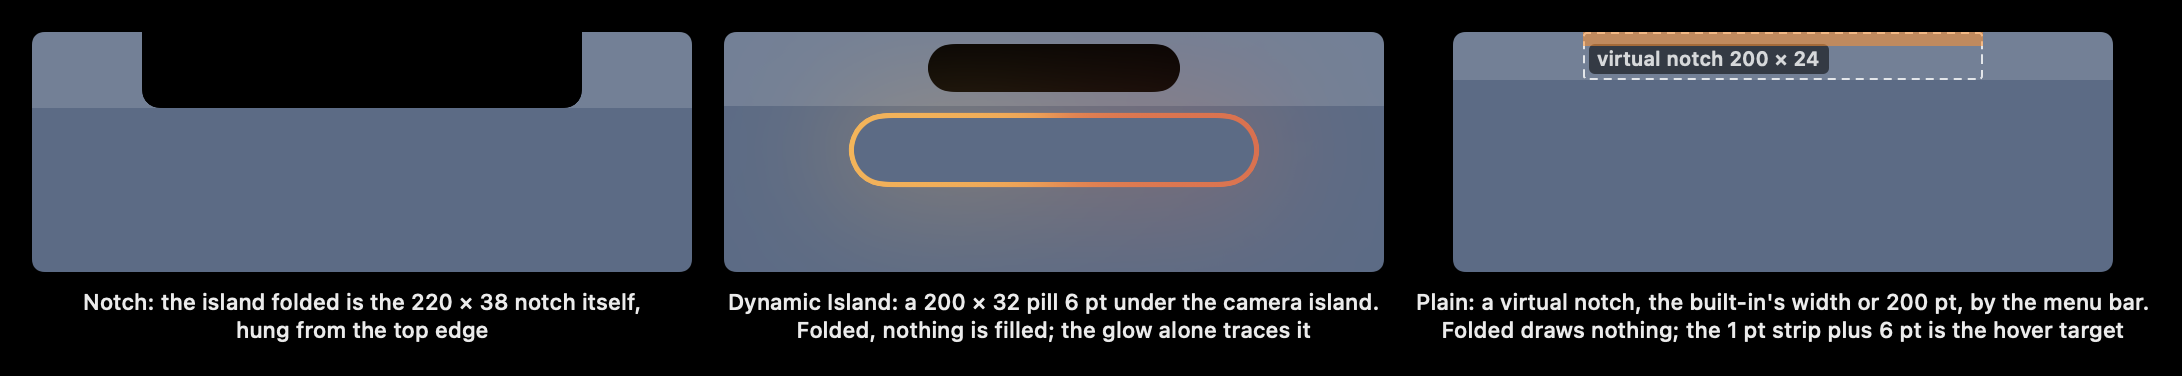
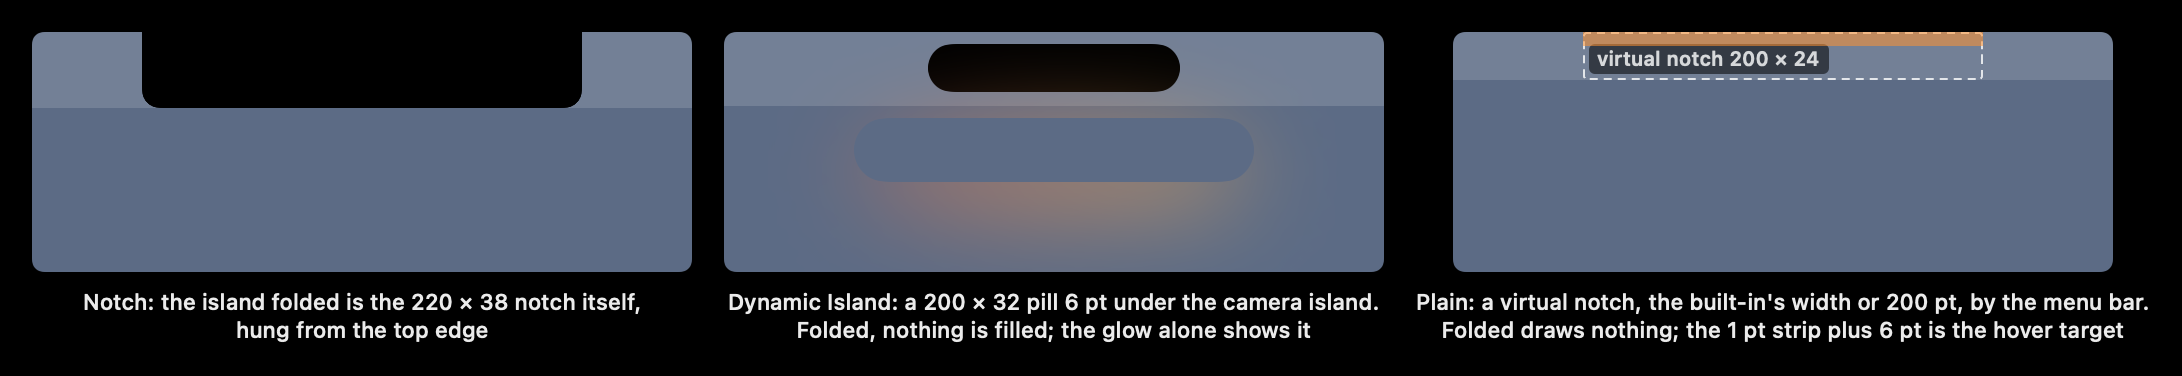
fix(glow): fade the light toward a short window top; a finished flash leaves the tree; reset when switched off
Review P1/P2: NotchGlowView(topRoom:) and View.notchGlowTopFade(room:) fade the light
out toward a window top that is not the screen's edge (a floating panel kept out of the
menu bar, a Dynamic Island panel), with render tests at 0, 16 and 59 pt. A flash's fall
now removes the ellipse (an alarm keeps its trace between beats). Switching the glow off
clears its state, so switching back on never shows a stale level. Figures re-rendered,
with the body cut out of the light.

Changed region(s): [[0.374, 0.4388, 0.5921, 0.5559], [0.374, 0.2926, 0.5921, 0.3511], [0.561, 0.8484, 0.5921, 0.9069]]

diff --git a/Sources/NotchKit/NotchGlow.swift b/Sources/NotchKit/NotchGlow.swift
@@ -260,6 +260,9 @@ public struct NotchGlowEllipse: View {
 /// - `trace`: the 2.6 pt gradient trace along the outline as well, still, while the glow is lit (for example under
 ///   Increase Contrast).
 /// - `alarm`: each sweep peaks at 90 %.
+/// - `topRoom`: the room above the frame inside the host's window, when its top is not the screen's edge (a floating
+///   panel kept out of the menu bar, a panel under the menu bar). Under `blurReach` the light fades out toward that top,
+///   so the window's edge never cuts it into a line (`notchGlowTopFade(room:)`).
 /// - Reduce Motion: held still with 0.2 s cross-fades.
 ///
 /// There is no timeline: nothing redraws per frame except while the island's size changes. When nothing is lit the
@@ -274,6 +277,8 @@ public struct NotchGlowView: View {
     let expansion: Double
     let trace: Bool
     let alarm: Bool
+    /// The room above the frame's top inside the host's window (nil: the frame's top is the screen's edge).
+    let topRoom: CGFloat?
     /// The light's opacity now (animated) and whether it is in the view tree.
     @State private var level: NotchGlowLevel
     @State private var present: Bool
@@ -284,9 +289,9 @@ public struct NotchGlowView: View {
     @Environment(\.notchConfiguration) private var configuration
 
     public init(state: NotchGlowState, shape: NotchGlowShape, on: Bool, reduceMotion: Bool, expansion: Double = 1,
-                trace: Bool = false, alarm: Bool = false) {
+                trace: Bool = false, alarm: Bool = false, topRoom: CGFloat? = nil) {
         self.state = state; self.shape = shape; self.on = on; self.reduceMotion = reduceMotion; self.expansion = expansion
-        self.trace = trace; self.alarm = alarm
+        self.trace = trace; self.alarm = alarm; self.topRoom = topRoom
         // A still state shows from the first frame; a flash starts from nothing and rises once the view is up.
         let motion = NotchGlow.motion(for: state, on: on, reduceMotion: reduceMotion, alarm: alarm)
         if case .hold(let l, _) = motion { _level = State(initialValue: l) } else { _level = State(initialValue: .zero) }
@@ -309,8 +314,10 @@ public struct NotchGlowView: View {
             drawing(light: present, still: nil, trace: trace && present)
                 .onChange(of: Key(state: state, reduceMotion: reduceMotion, alarm: alarm), initial: true) { _, key in
                     run(NotchGlow.motion(for: key.state, on: true, reduceMotion: key.reduceMotion, alarm: key.alarm,
-                                         sweep: configuration.motion.glowSweep))
+                                         sweep: configuration.motion.glowSweep), alarm: key.alarm)
                 }
+                // Switched off: nothing is kept, so switching back on starts from the state then, not a stale level.
+                .onDisappear { token += 1; present = false; level = .zero; traceLit = false }
         }
     }
 
@@ -320,10 +327,11 @@ public struct NotchGlowView: View {
         return view
     }
 
-    /// Animates the light (and the trace) to a motion. A flash rises, then, unless another motion took over, fades out;
-    /// once nothing is lit and the fade has run, the ellipse leaves the view tree. Inserted under the motion's animation,
-    /// the ellipse rises from nothing (its `.opacity` transition), whatever level it is inserted at.
-    private func run(_ motion: NotchGlowMotion) {
+    /// Animates the light (and the trace) to a motion. A flash rises, then, unless another motion took over, fades out
+    /// and leaves the view tree (an alarm's keeps its trace lit between beats); once nothing is lit and the fade has run,
+    /// the ellipse leaves the view tree. Inserted under the motion's animation, the ellipse rises from nothing (its
+    /// `.opacity` transition: an inserted modifier has no earlier value to animate from, so its level shows at once).
+    private func run(_ motion: NotchGlowMotion, alarm: Bool) {
         token += 1
         let mine = token
         switch motion {
@@ -338,7 +346,12 @@ public struct NotchGlowView: View {
         case .flash(let peak, let rise, let fall):
             withAnimation(.easeInOut(duration: rise)) { present = true; level = peak; traceLit = true } completion: {
                 guard token == mine else { return }
-                withAnimation(.easeInOut(duration: fall)) { level = .zero }
+                withAnimation(.easeInOut(duration: fall)) {
+                    level = .zero
+                    if !alarm { traceLit = false }
+                } completion: {
+                    if token == mine, !alarm { present = false }
+                }
             }
         }
     }
@@ -356,6 +369,7 @@ public struct NotchGlowView: View {
                 traceView.opacity(still != nil || traceLit ? 1 : 0)
             }
         }
+        .notchGlowTopFade(room: topRoom)
         .allowsHitTesting(false)
         .accessibilityHidden(true)
         if case .notch = shape {
@@ -387,6 +401,27 @@ public struct NotchGlowView: View {
             .padding(NotchGlow.traceRoom)
             .drawingGroup()
             .padding(-NotchGlow.traceRoom)
+    }
+}
+
+extension View {
+    /// Fades the glow's light out toward a window's top edge `room` points above this view's frame, so the edge never
+    /// cuts the light into a line: clear at that edge, full `NotchGlow.blurReach` below it. Nil, or room enough for the
+    /// light (at least `blurReach`): unchanged. For a glow whose host's top is not the screen's edge.
+    @ViewBuilder public func notchGlowTopFade(room: CGFloat?) -> some View {
+        if let room, room < NotchGlow.blurReach {
+            let pad = NotchGlow.ellipseRoom
+            mask {
+                VStack(spacing: 0) {
+                    LinearGradient(colors: [.clear, .black], startPoint: .top, endPoint: .bottom).frame(height: NotchGlow.blurReach)
+                    Rectangle()
+                }
+                .padding(.top, -max(0, room))
+                .padding([.leading, .trailing, .bottom], -pad)
+            }
+        } else {
+            self
+        }
     }
 }
 

diff --git a/Tests/NotchKitTests/NotchGlowTests.swift b/Tests/NotchKitTests/NotchGlowTests.swift
@@ -138,6 +138,8 @@ import Testing
                 let l = light(island, .of(g, expansion: 1), 1)
                 #expect(l.minX >= panel.minX && l.maxX <= panel.maxX && l.maxY <= panel.maxY, "docked \(g.kind), growth \(growth), overshoot \(overshoot): \(l) in \(panel)")
             }
+            // (A Dynamic Island display's panel top is the menu bar's bottom, 6 pt above the pill: there the client fades the
+            // light toward it, `aDynamicIslandPanelFadesTheLightUnderTheMenuBar`.)
             let folded = light(g.collapsedRect.isEmpty ? NotchGlowShape.stripRect(g) : g.collapsedRect, .of(g, expansion: 0), 0)
             #expect(folded.minX >= 0 && folded.maxX <= panel.maxX && folded.maxY <= panel.maxY, "docked folded \(g.kind): \(folded)")
 
@@ -229,10 +231,11 @@ import Testing
     }
 
     /// The light at the glow's highest peak (90 %), placed at `island` in a panel `panel` big.
-    @MainActor static func peak(_ island: CGRect, _ shape: NotchGlowShape, expansion: Double, panel: CGSize) -> some View {
+    @MainActor static func peak(_ island: CGRect, _ shape: NotchGlowShape, expansion: Double, panel: CGSize, topRoom: CGFloat? = nil) -> some View {
         NotchGlowEllipse(shape: shape, expansion: expansion)
             .opacity(NotchGlow.alarmPeak.folded)
             .frame(width: island.width, height: island.height)
+            .notchGlowTopFade(room: topRoom)
             .padding(.leading, island.minX).padding(.top, island.minY)
             .frame(width: panel.width, height: panel.height, alignment: .topLeading)
     }
@@ -273,6 +276,31 @@ import Testing
             let pill = try Self.render(Self.peak(f.collapsedRect, .of(f, expansion: 0), expansion: 0, panel: fp), size: fp)
             #expect(pill.edgeAlpha(top: true) == 0, "floating pill at \(offset), growth \(growth): \(pill.edgeAlpha(top: true))")
         }
+    }
+
+    /// Where the window's top is not the screen's edge and the room above the island is short (a floating panel kept out
+    /// of the menu bar: 16 pt at a VoiceOver corner, 0 after a drag to the top; a Dynamic Island display's panel, 6 pt
+    /// under the menu bar), `notchGlowTopFade` fades the light out toward that top: the top row stays clear at the peak,
+    /// and the light under the island still shows.
+    @MainActor @Test(arguments: [0.0, 16, 59])
+    func aShortTopFadesTheLightOut(topMargin: Double) throws {
+        let g = NotchGeometry.make(notch: Notch(width: 220, height: 38), builtInNotchWidth: 220, menuBarHeight: 38).floating(topMargin: topMargin)
+        let panel = g.panelSize
+        for (island, e) in [(g.collapsedRect, 0.0), (g.islandRect(size: g.expandedSize), 1.0)] {
+            let p = try Self.render(Self.peak(island, .of(g, expansion: e), expansion: e, panel: panel, topRoom: island.minY), size: panel)
+            #expect(p.edgeAlpha(top: true) <= 1, "top margin \(topMargin), expansion \(e): edge alpha \(p.edgeAlpha(top: true))")
+            #expect(p.alpha(Int(island.midX), Int(island.maxY) + 10) > 20, "the light under the island still shows")
+        }
+        let unfaded = try Self.render(Self.peak(g.collapsedRect, .of(g, expansion: 0), expansion: 0, panel: panel), size: panel)
+        if topMargin < 30 { #expect(unfaded.edgeAlpha(top: true) > 2, "without the fade the top edge would cut the light") }
+    }
+
+    @MainActor @Test func aDynamicIslandPanelFadesTheLightUnderTheMenuBar() throws {
+        let g = NotchGeometry.make(notch: nil, builtInNotchWidth: 0, menuBarHeight: 37, dynamicIsland: true, touch: true)
+        #expect(g.islandTop < NotchGlow.blurReach, "the panel's top is the menu bar's bottom, 6 pt above the pill")
+        let p = try Self.render(Self.peak(g.collapsedRect, .of(g, expansion: 0), expansion: 0, panel: g.panelSize, topRoom: g.collapsedRect.minY), size: g.panelSize)
+        #expect(p.edgeAlpha(top: true) <= 1, "edge alpha \(p.edgeAlpha(top: true))")
+        #expect(p.alpha(Int(g.collapsedRect.midX), Int(g.collapsedRect.maxY) + 10) > 10)
     }
 
     private static let island = CGSize(width: 300, height: 120)

diff --git a/Examples/NotchKitDocImages/main.swift b/Examples/NotchKitDocImages/main.swift
@@ -67,6 +67,14 @@ struct Docked: View {
         ZStack {
             NotchGlowView(state: glow, shape: .notch(shoulder: shape.shoulder, bottomRadius: shape.bottomRadius), on: true,
                           reduceMotion: true, expansion: e)
+                // A translucent body would show the light through it: cut the island's shape out of the glow.
+                .mask {
+                    ZStack {
+                        Rectangle().padding(-NotchGlow.drawingPadding(expansion: e))
+                        if rendering != .solid { shape.blendMode(.destinationOut) }
+                    }
+                    .compositingGroup()
+                }
             NotchBackdrop(shape: AnyShape(shape), rendering: rendering, height: size.height, expandedHeight: g.expandedSize.height)
         }
         .frame(width: size.width, height: size.height)
@@ -260,24 +268,24 @@ struct Marked: View {
     .background(.black)
 }
 
-/// Where the glow goes: the notch island's edge, a plain display's strip, the pill.
+/// Where the glow's light goes: under the expanded island, round the folded notch, under a plain display's strip.
 @MainActor func glowShapes() -> some View {
     let w = 520.0, h = 330.0
     return HStack(alignment: .top, spacing: 16) {
         VStack(spacing: 8) {
             Desktop(menuBar: notch.height, width: w, height: h) { Docked(geometry: notched, expansion: 1, rendering: .tint, glow: .sweep(serial: 1)) }
-            Caption("Notch: a 2.6 pt trace outside the island's edge, the shape blurred behind it as a backlight")
+            Caption("Expanded: blurred light under the island, cut out of the frosted body")
         }
         VStack(spacing: 8) {
             Desktop(menuBar: notch.height, width: w, height: h) { Docked(geometry: notched, expansion: 0, glow: .sweep(serial: 1)) }
-            Caption("Folded: no shoulders, so the trace follows the hardware notch")
+            Caption("Folded: a pool of light round and under the notch")
         }
         VStack(spacing: 8) {
             Desktop(menuBar: 24, width: w, height: h) {
                 NotchGlowView(state: .sweep(serial: 1), shape: .strip, on: true, reduceMotion: true, expansion: 0)
                     .frame(width: plain.notch.width, height: NotchGeometry.stripHeight)
             }
-            Caption("Plain display folded: the 1 pt strip at the top centre, nothing filled")
+            Caption("Plain display folded: light under the 1 pt strip, nothing filled")
         }
     }
     .padding(16)

diff --git a/docs/Geometry.md b/docs/Geometry.md
@@ -145,7 +145,7 @@ A floating island dragged toward the notch takes in the notch's black from its t
 
 - **What it draws.** Light, not a line: an ellipse in the gradient (start → end, leading to trailing) behind the island, blurred 24 pt (`NotchGlowEllipse`). The ellipse and its blur are rasterised once into one bitmap (`drawingGroup`). Only its opacity animates, so a fade reuses the bitmap; it is redrawn only while the island's size changes. There is no timeline. The caller fills the island over it, or masks the island's shape out of a translucent body. A pill's or a strip's inside is cut out by the view, since nothing fills it.
 - **Where** (`NotchGlow.ellipseRect`). Expanded: inset 32 pt from the island's sides, its bottom 14 pt below the island's, at most 260 pt tall, its top at least 60 pt below the island's top (so no light shows above it). Folded at a notch or a strip: 40 pt wider than the island, 80 pt tall, its bottom 32 pt below the island's. Folded as a pill: as wide as the pill, 50 pt tall, its bottom 20 pt below. In between it interpolates with the expansion.
-- **Reach.** The blurred light is gone 60 pt past the ellipse's edge (`blurReach`, 2.5 blur radii). The drawing keeps `ellipseRoom` (92 pt) round the island, and the panel margins come from the reach (`NotchGlow.reach`), so a panel's edge never cuts the light into a hard line. One exception is the client's own: where a floating panel's top margin is cut short (for example to stay out of the menu bar), the light above the island is clipped there.
+- **Reach.** The blurred light is gone 60 pt past the ellipse's edge (`blurReach`, 2.5 blur radii). The drawing keeps `ellipseRoom` (92 pt) round the island, and the panel margins come from the reach (`NotchGlow.reach`), so a panel's edge never cuts the light into a hard line. Where a panel's top is not the screen's edge and the room above the island is short (a floating panel kept out of the menu bar, a Dynamic Island display's panel under the menu bar), pass `topRoom:`: the light fades out toward that top (`notchGlowTopFade(room:)`, clear at the edge, full `blurReach` below it).
 - **States** (`NotchGlow.motion`). Off draws nothing, and once its fade has run the ellipse leaves the view tree. Turning eases to 50 % over 0.6 s and holds still. A sweep flashes: up to 75 % expanded and 90 % folded over the first 30 % of `glowSweep` (0.48 s of 1.6 s), then out over the rest. Each new serial starts a new flash. With `alarm: true` each sweep peaks at 90 %; a client sends a new serial for each beat (nothing repeats by itself). When the state ends the light fades out over 0.6 s.
 - **Trace (opt-in).** `trace: true` adds a 2.6 pt gradient trace (start → end → start) along the outline, outside the island's edge, still and at full while the glow is lit. It suits Increase Contrast, where a soft light alone is a weak signal. A calibration run (`NotchConfiguration.Debug.glowCalibration`) lights the glow steadily with the trace.
 - **Shape.** The glow follows the notch island, a plain display's folded 1 pt strip, or the pill: on a Dynamic Island display, or floating (`NotchGlowShape.of(_:expansion:)`).

diff --git a/CHANGELOG.md b/CHANGELOG.md
@@ -23,7 +23,8 @@ The glow is light, not a line.
 - **No floating border by default.** `NotchConfiguration.Floating.border` defaults to clear, and `NotchBackdrop` draws a border only when it has some opacity.
 
 ### Added
-- `NotchGlowView(state:shape:on:reduceMotion:expansion:trace:alarm:)`: `trace` and `alarm` (each sweep peaks at 90 %).
+- `NotchGlowView(state:shape:on:reduceMotion:expansion:trace:alarm:topRoom:)`: `trace`, `alarm` (each sweep peaks at 90 %) and `topRoom` (the light fades out toward a window top that is not the screen's edge).
+- `View.notchGlowTopFade(room:)`, that fade on its own.
 - `NotchGlowEllipse`, the still light, for a client that animates it itself or renders it.
 - `NotchGlow.ellipseRect(island:shape:expansion:)`, `ellipseBlur`, `blurReach`, `ellipseRoom`, `reach(pill:expansion:islandHeight:)` and the ellipse's sizes; `NotchGlow.motion(for:on:reduceMotion:alarm:sweep:)` with `NotchGlowMotion` and `NotchGlowLevel`, the levels and fades.
 - `NotchGeometry.sideMargin` and `bottomMargin`.
@@ -32,7 +33,7 @@ The glow is light, not a line.
 - 0.1's backlight and turning trace: `NotchGlow.haloBlur`, `haloOutset`, `foldedHaloBlur`, `foldedHaloOutset`, `haloBlur(expansion:)`, `haloOutset(expansion:)`, `haloOpacity(turning:)`, `appearance(for:on:reduceMotion:)`, `sweepAngle`, `frameInterval(for:)`, `turnAngle(at:turn:)` and `NotchGlowAppearance`. `NotchConfiguration.Glow.offOutline` and `Motion.glowTurn` are no longer read. `NotchGeometry.outset` and `blur` no longer set the margins.
 
 ### Removed
-- The glow's turn and sweep GIFs from the docs (they showed 0.1's trace).
+- The glow's turn and sweep GIFs from the docs (they showed 0.1's trace). The figures in `docs/images` are rendered again.
 
 ## [0.1.0] - 2026-11-09
 
